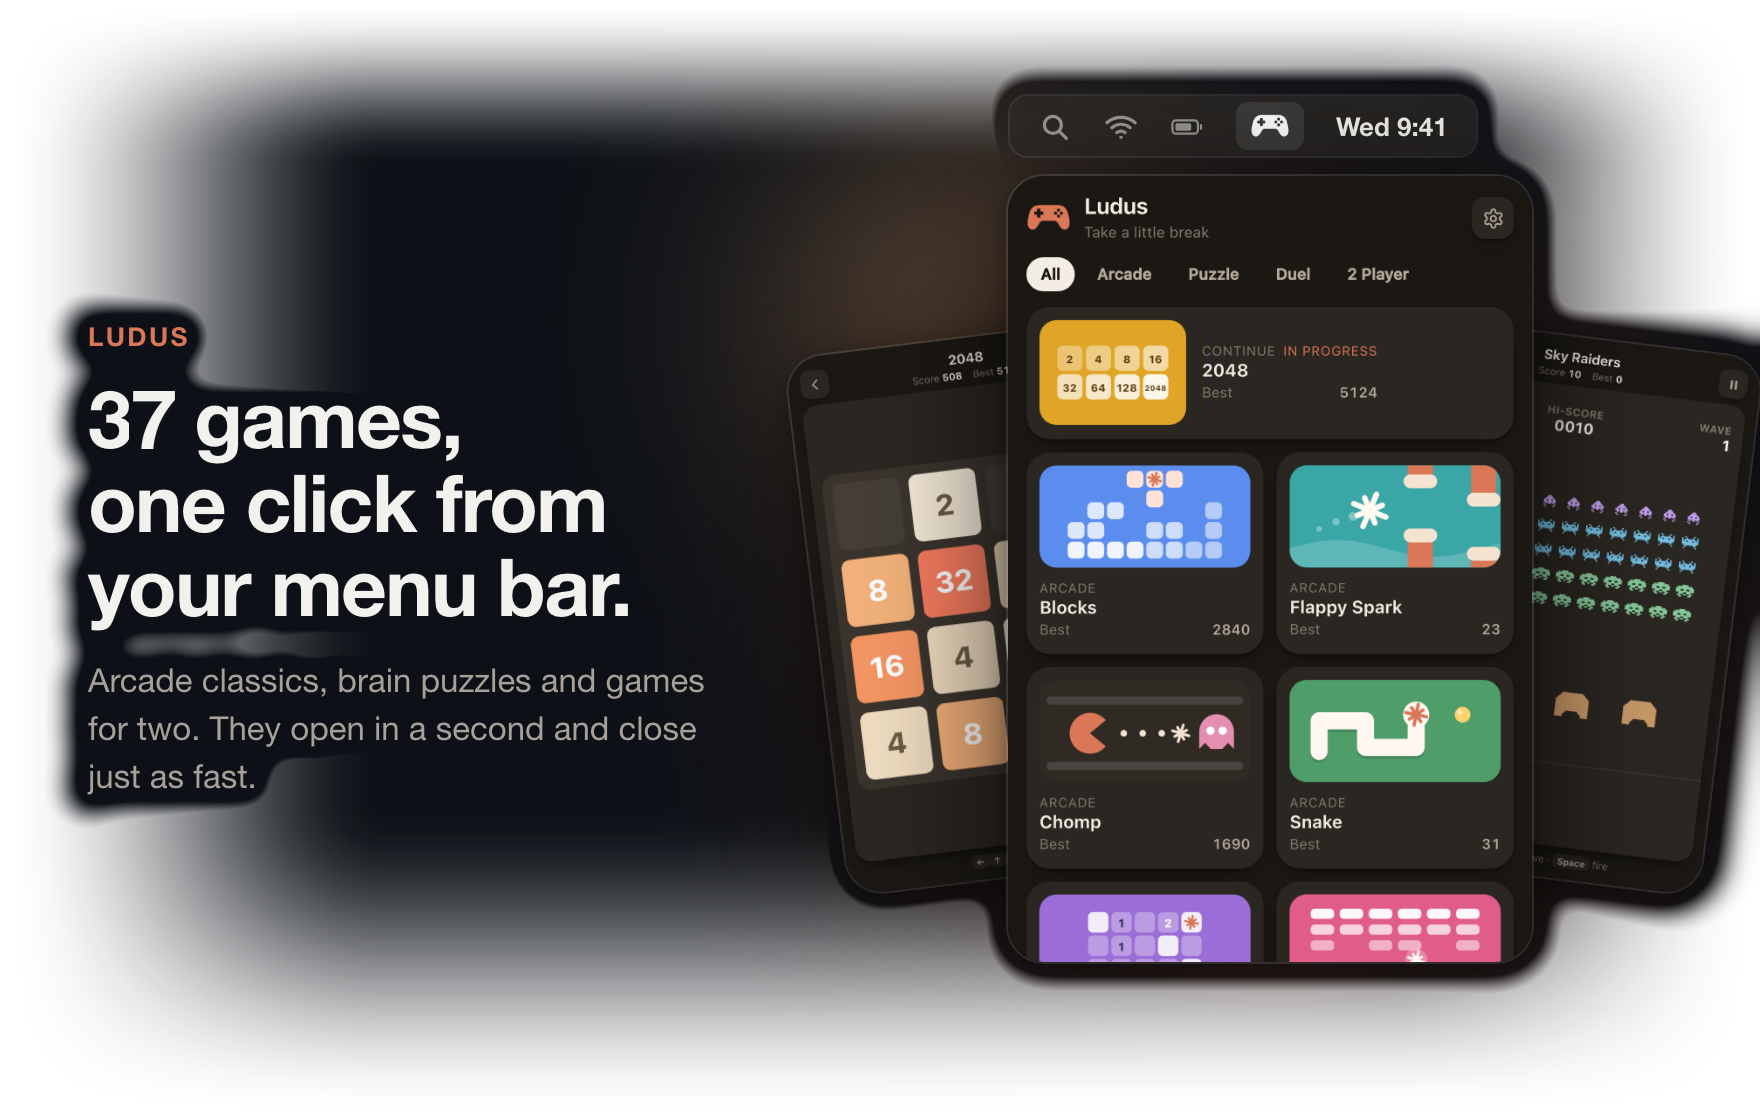
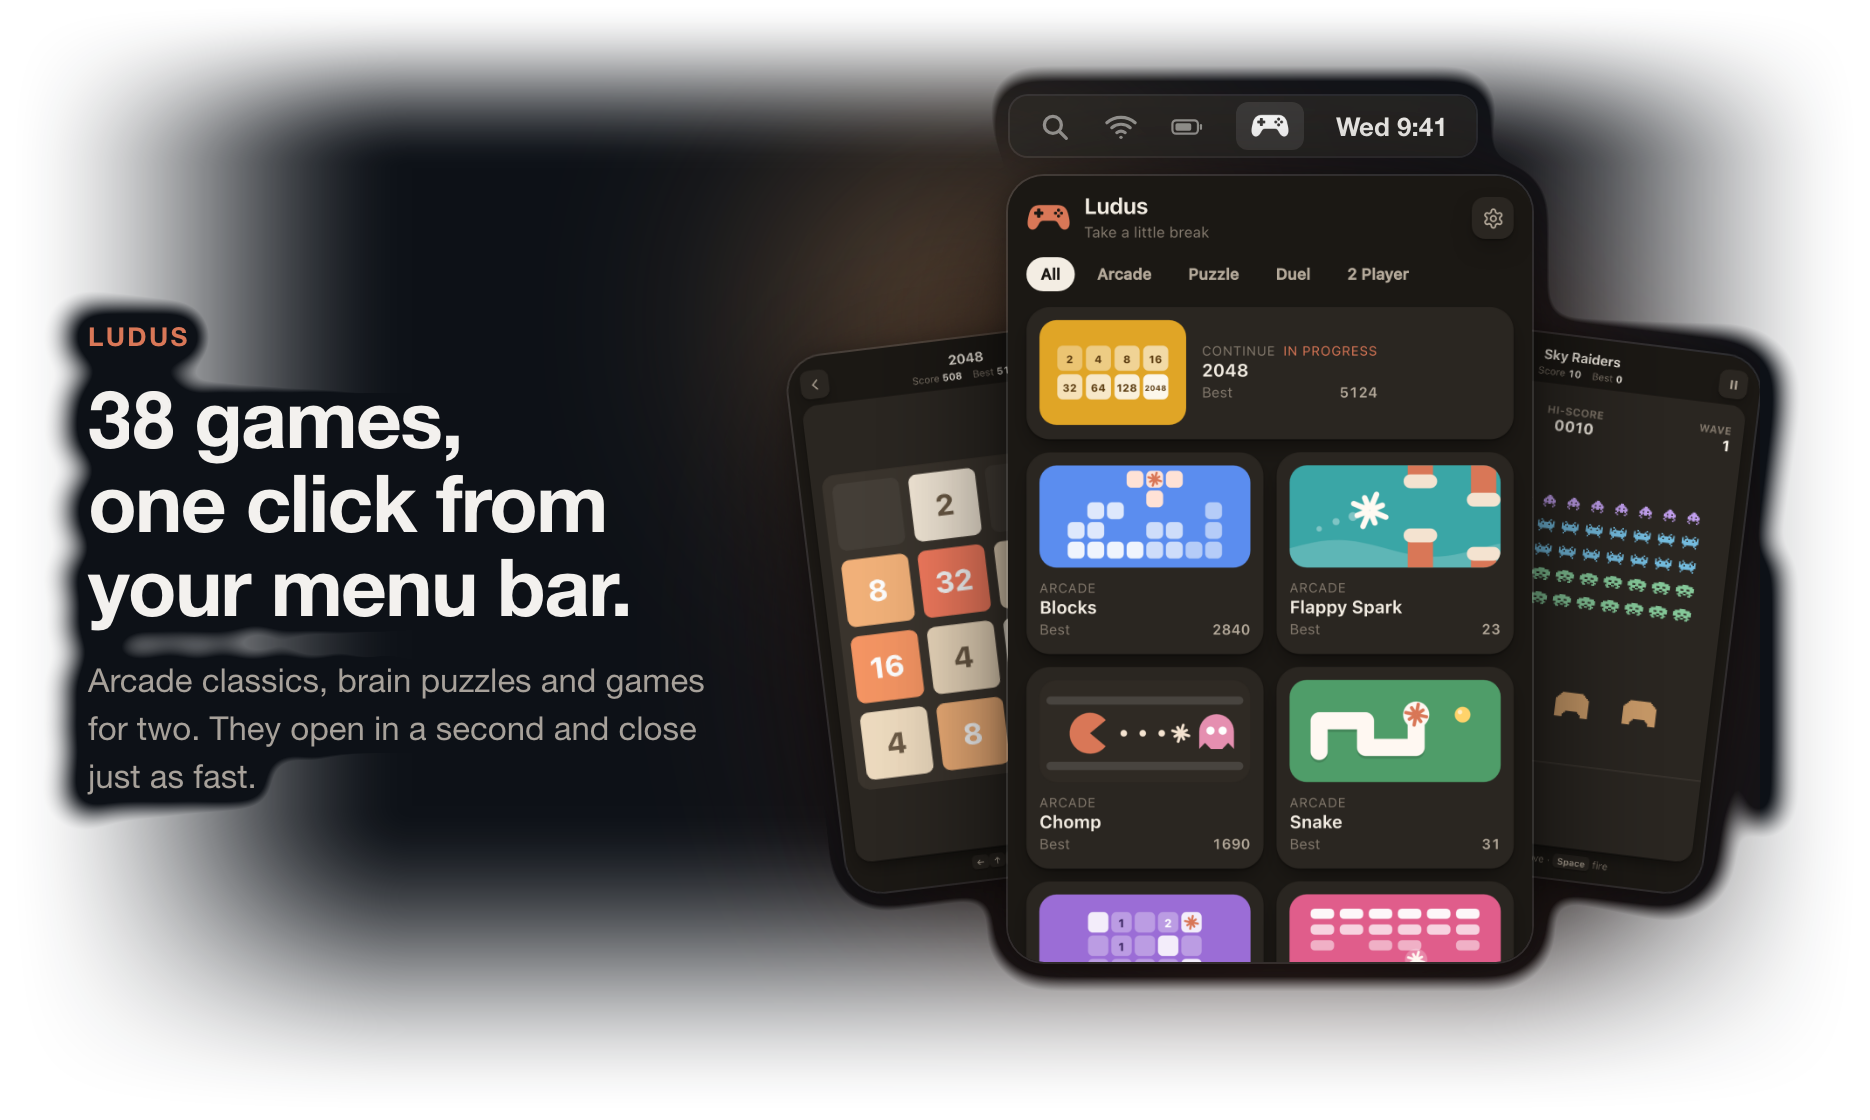
docs: 38 games, padded showcase images

Changed region(s): [[0.4375, 0.0625, 1.0, 0.9062], [0.0312, 0.2812, 0.4062, 0.7188]]

diff --git a/README.md b/README.md
@@ -7,7 +7,7 @@
 
 <h1>Ludus</h1>
 
-<p><b>37 little games in your menu bar. Take a little break.</b></p>
+<p><b>38 little games in your menu bar. Take a little break.</b></p>
 
 <p>
   <a href="https://github.com/Solomon-69/Ludus/releases/latest"><img alt="Version 1.7.0" src="https://img.shields.io/badge/version-1.7.0-d97757?style=flat-square"></a>
@@ -54,7 +54,7 @@ It is free, open source, works fully offline by default and collects nothing. Pl
 
 ## Features
 
-Ludus puts 37 small, polished games one click away. Here is what is inside.
+Ludus puts 38 small, polished games one click away. Here is what is inside.
 
 <picture>
   <source media="(prefers-color-scheme: dark)" srcset="docs/showcase/ludus-2-dark.png">
